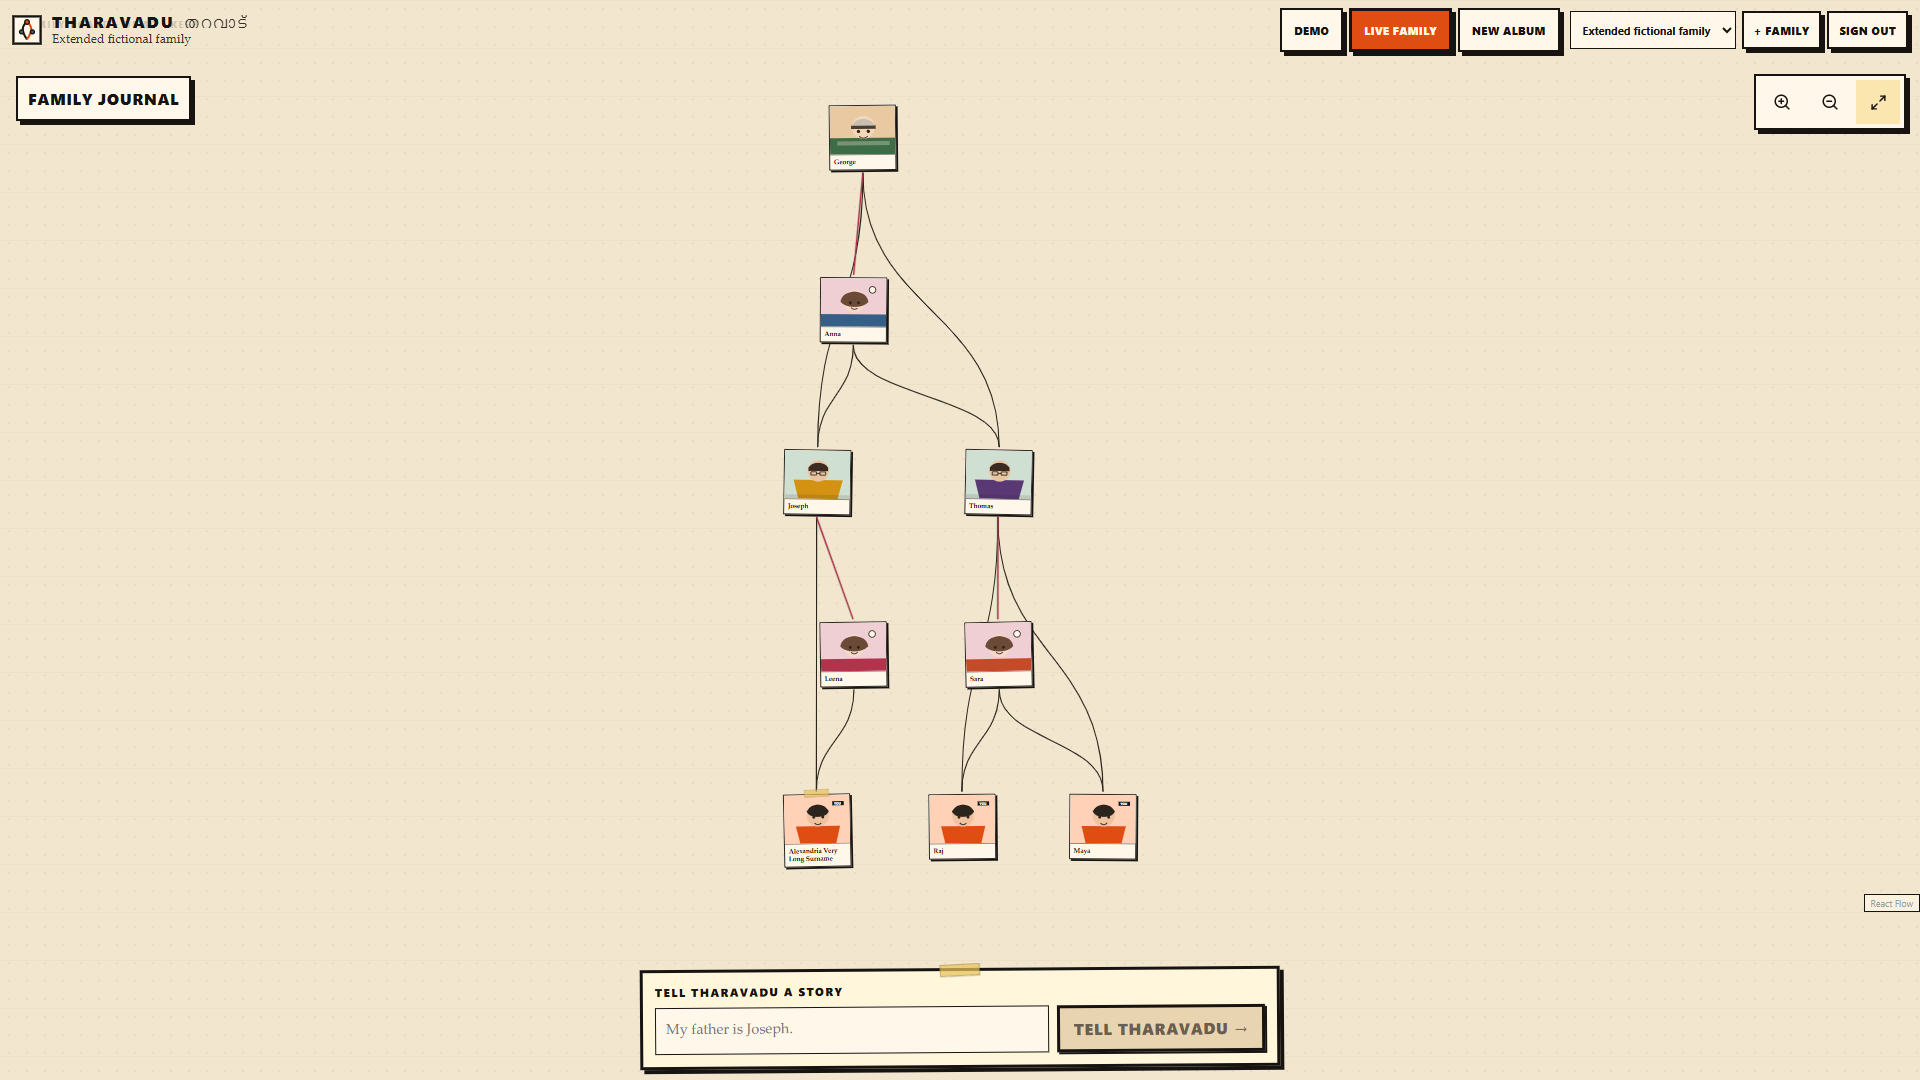
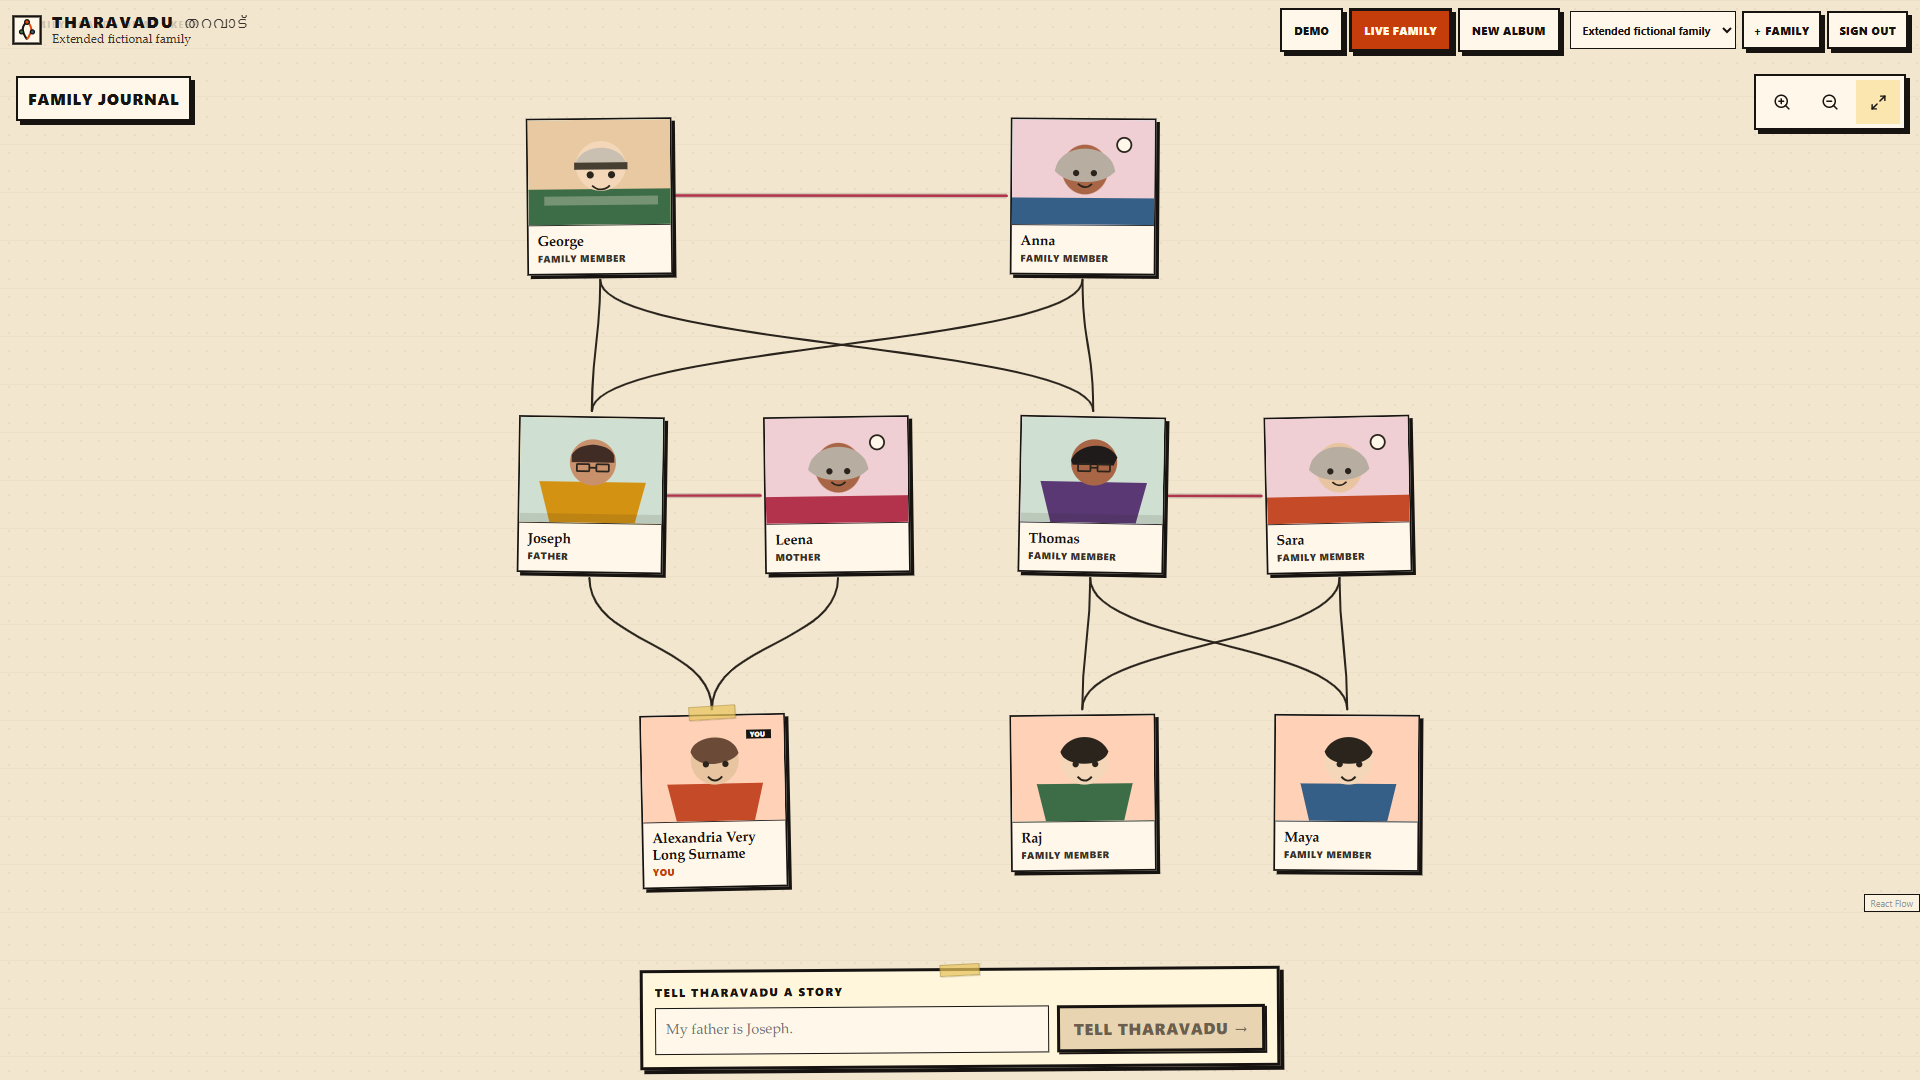
docs: update release candidate evidence [THAR-014]

diff --git a/docs/PROJECT_STATUS.md b/docs/PROJECT_STATUS.md
@@ -1,17 +1,17 @@
 # Project status — October 14, 2026
 
-Tharavadu has an integrated, local-first MVP through THAR-013. The live Next.js workspace connects to FastAPI for accounts, families, proposals, graph exploration, kinship trails, memories, and corrections. The demo remains available without an account.
+Tharavadu has an integrated, local-first release-candidate MVP on the THAR-014 task branch. The live Next.js workspace connects to FastAPI for accounts, families, proposals, graph exploration, kinship trails, memories, and corrections. The demo remains available without an account.
 
 | Area | Verified state | Boundary |
 | --- | --- | --- |
 | Backend | 109 passing Python tests, including local HTTP integration flows | Live PostgreSQL and Neo4j integration not run |
 | Frontend | Typecheck, ESLint, and production build pass | No Firefox or WebKit run |
-| Browser | 15 Playwright cases pass at 1280×800, 1920×1080, and 390×844, using a disposable SQLite backend and offline provider | Chromium/Chrome only; cross-browser coverage remains future work |
+| Browser | 30 Playwright cases pass: full product journeys at 1280×800, 1920×1080, and 390×844, plus responsive, composer, and keyboard checks at those sizes and 768×1024 and 1440×900; 15 final-state screenshots reviewed | Chromium/Chrome only; cross-browser coverage remains future work |
 | Narrative | Offline proposal, human review, homonym resolution, confirmation, discard, stale revision handling | Offline grammar is limited; live OpenAI smoke not run without a key |
 | Kinship | Deterministic Python classifications and evidence trail shown in the UI | No model-generated relationship truth |
 | Memories | Create, list, delete, persistence, family isolation | Text memories; no file attachments |
 | Corrections | Edit person, remove edge, remove person in local mode | Neo4j person deletion returns 501 until cross-store atomicity is solved |
-| CI | Workflow added for backend, frontend, and E2E on PR/push to main; the THAR-011 main run succeeded | THAR-012 hosted run result should be checked separately |
+| CI | Backend, frontend, and E2E workflows passed on `main` through THAR-013 (`f9324fb`) | THAR-014 branch has not been validated by hosted CI yet |
 | Containers | Clean Compose build and live browser journey pass; SQLite graph and memory survive restart and container recreation on the named volume; `down -v` clears the account and allows fresh registration | Local Compose evaluation only, not a production deployment test |
 
 The app is suitable for local evaluation and contribution. Production deployment still needs migration tooling, external database integration tests, shared rate limiting for multiple workers, operational backup/restore guidance, and broader browser testing. See [ADR-0004](adr/ADR-0004-person-removal-memory-retention.md) for memory behavior on person removal.

diff --git a/CHANGELOG.md b/CHANGELOG.md
@@ -1,9 +1,10 @@
 # Changelog
 
-This project is pre-1.0. Entries describe completed work on `main`; see [Project Status](docs/PROJECT_STATUS.md) for current validation and limitations.
+This project is pre-1.0. Unreleased entries include completed task-branch work; see [Project Status](docs/PROJECT_STATUS.md) for current validation and limitations.
 
 ## Unreleased
 
+- THAR-014: corrected generation layout and partner links, framed new branches and kinship trails, diversified local portraits, improved mobile story entry and dialog keyboard behavior, suppressed identifier-bearing container access logs, and expanded browser coverage to five viewport sizes.
 - THAR-013: verified the local Docker Compose build, containerized product journey, SQLite volume persistence, and explicit volume reset; documented the tested lifecycle.
 - THAR-012: release documentation and contributor templates; local-first Docker Compose configuration; wide viewport browser coverage; family-switch request ordering, multi-generation canvas fit, and streamed request-size enforcement.
 
